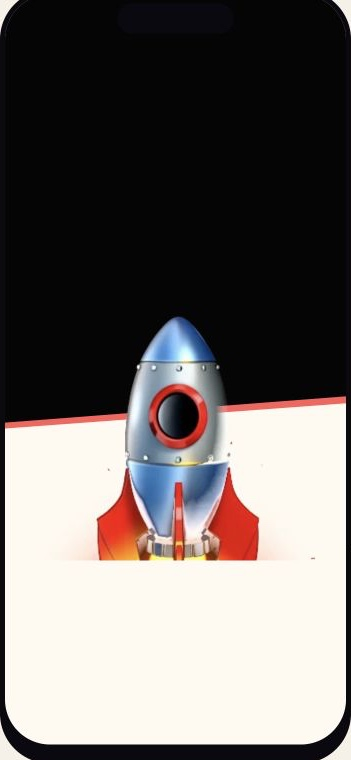
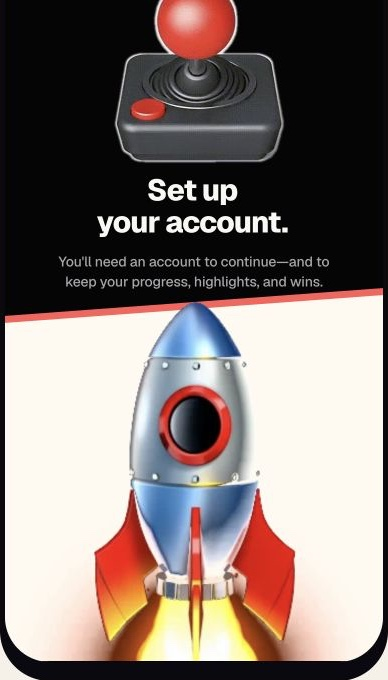
fix(onboarding): make rocket push page divider

diff --git a/app/globals.css b/app/globals.css
@@ -430,8 +430,9 @@
 
 /* Black-frame handoff into the first-launch welcome screen */
 .welcome-screen {
+  --welcome-divider-top: min(71%, 427px);
   isolation: isolate;
-  position: relative;
+  position: absolute;
   display: flex;
   flex-direction: column;
   overflow: hidden;
@@ -447,19 +448,19 @@
   bottom: -1px;
   left: -1px;
   content: "";
-  clip-path: polygon(0 16%,100% 0,100% 100%,0 100%);
+  clip-path: polygon(0 28px,100% 0,100% 100%,0 100%);
   pointer-events: none;
 }
 
 .welcome-screen::before {
   z-index: 0;
-  top: 71%;
+  top: var(--welcome-divider-top);
   background: #ff5d57;
 }
 
 .welcome-screen::after {
   z-index: 0;
-  top: calc(71% + 7px);
+  top: calc(var(--welcome-divider-top) + 7px);
   background: #fffaf0;
 }
 
@@ -617,60 +618,61 @@
   visibility: visible;
 }
 
-.rocket-wipe {
-  position: absolute;
-  right: -15%;
-  bottom: -15%;
-  left: -15%;
-  height: 135%;
-  clip-path: polygon(0 18%,50% 0,100% 18%,100% 100%,0 100%);
-  translate: 0 110%;
-  will-change: transform;
+.welcome-screen.is-launching::before,
+.welcome-screen.is-launching::after {
+  opacity: 0;
 }
 
-.rocket-wipe-edge {
+.rocket-divider-mask {
+  position: absolute;
   z-index: 1;
+  top: var(--welcome-divider-top);
+  right: -1px;
+  left: -1px;
+  height: 100%;
+  will-change: top;
+}
+
+.rocket-divider-edge,
+.rocket-divider-surface {
+  position: absolute;
+  inset: 0;
+  display: block;
+  clip-path: polygon(0 28px,100% 0,100% 100%,0 100%);
+}
+
+.rocket-divider-edge {
   background: #ff5d57;
 }
 
-.rocket-wipe-surface {
-  z-index: 2;
-  background: #f6f1e8;
+.rocket-divider-surface {
+  top: 7px;
+  background: #fffaf0;
 }
 
 .rocket-launch {
   position: absolute;
-  z-index: 3;
-  bottom: -84%;
+  z-index: 2;
+  top: 100%;
   left: 50%;
   display: block;
   width: min(112%, 430px);
   height: auto;
   object-fit: contain;
   translate: -50% 0;
-  will-change: transform;
+  will-change: top;
 }
 
 .welcome-screen.is-launching {
   animation: welcome-ignition-shake .25s cubic-bezier(.36,.07,.19,.97) both;
 }
 
-.is-launching .welcome-joystick-stage,
-.is-launching .welcome-copy,
-.is-launching .welcome-actions {
-  animation: welcome-launch-clear .24s .08s ease-in both;
-}
-
-.is-launching .rocket-wipe-edge {
-  animation: rocket-wipe-rise .6s .18s cubic-bezier(.5,.02,.22,1) both;
-}
-
-.is-launching .rocket-wipe-surface {
-  animation: rocket-wipe-rise .6s .22s cubic-bezier(.5,.02,.22,1) both;
+.is-launching .rocket-divider-mask {
+  animation: rocket-divider-lift .9s .08s both;
 }
 
 .is-launching .rocket-launch {
-  animation: rocket-takeoff .74s .11s cubic-bezier(.42,0,.6,1) both;
+  animation: rocket-divider-push .9s .08s both;
 }
 
 @keyframes welcome-ignition-shake {
@@ -686,22 +688,28 @@
   90% { transform: translate3d(-2px,1px,0) rotate(-.15deg); }
 }
 
-@keyframes welcome-launch-clear {
-  to {
-    opacity: 0;
-    transform: scale(.97);
-    filter: blur(2px);
+@keyframes rocket-divider-lift {
+  0%,
+  36% {
+    top: var(--welcome-divider-top);
+    animation-timing-function: cubic-bezier(.22,.8,.3,1);
   }
+
+  100% { top: -6%; }
 }
 
-@keyframes rocket-wipe-rise {
-  from { transform: translate3d(0,0,0); }
-  to { transform: translate3d(0,-116%,0); }
-}
+@keyframes rocket-divider-push {
+  0% {
+    top: 100%;
+    animation-timing-function: cubic-bezier(.18,.78,.25,1);
+  }
 
-@keyframes rocket-takeoff {
-  from { transform: translate3d(0,0,0); }
-  to { transform: translate3d(0,-190%,0); }
+  36% {
+    top: calc(var(--welcome-divider-top) + 14px);
+    animation-timing-function: cubic-bezier(.22,.8,.3,1);
+  }
+
+  100% { top: calc(-6% + 14px); }
 }
 
 @keyframes welcome-joystick-in {
@@ -759,21 +767,24 @@
     animation: none !important;
   }
 
-  .is-launching .rocket-wipe-edge,
+  .is-launching .rocket-divider-edge,
   .is-launching .rocket-launch {
     display: none;
     animation: none !important;
   }
 
-  .rocket-wipe-surface {
+  .rocket-divider-mask {
     inset: 0;
     height: auto;
-    clip-path: none;
     opacity: 0;
-    translate: 0;
   }
 
-  .is-launching .rocket-wipe-surface {
+  .rocket-divider-surface {
+    inset: 0;
+    clip-path: none;
+  }
+
+  .is-launching .rocket-divider-mask {
     display: block;
     animation: rocket-reduced-cover .2s ease-out both !important;
   }

diff --git a/app/page.tsx b/app/page.tsx
@@ -120,14 +120,14 @@ function WelcomeScreen({ next, onLogin }: { next: () => void; onLogin: () => voi
 
   useEffect(() => {
     const rocket = new Image();
-    rocket.src = "/havoc-rocket-launch.webp";
+    rocket.src = "/havoc-rocket-cutout.png";
   }, []);
 
   useEffect(() => {
     if (!launching) return;
 
     const reduceMotion = window.matchMedia("(prefers-reduced-motion: reduce)").matches;
-    const timer = window.setTimeout(next, reduceMotion ? 240 : 860);
+    const timer = window.setTimeout(next, reduceMotion ? 240 : 1040);
     return () => window.clearTimeout(timer);
   }, [launching, next]);
 
@@ -168,14 +168,16 @@ function WelcomeScreen({ next, onLogin }: { next: () => void; onLogin: () => voi
       </button>
     </div>
     <div className="rocket-transition" aria-hidden="true">
-      <span className="rocket-wipe rocket-wipe-edge" />
-      <span className="rocket-wipe rocket-wipe-surface" />
+      <span className="rocket-divider-mask">
+        <span className="rocket-divider-edge" />
+        <span className="rocket-divider-surface" />
+      </span>
       <img
         className="rocket-launch rocket-launch-motion"
-        src="/havoc-rocket-launch.webp"
+        src="/havoc-rocket-cutout.png"
         alt=""
-        width={383}
-        height={665}
+        width={343}
+        height={552}
       />
     </div>
   </div>;
